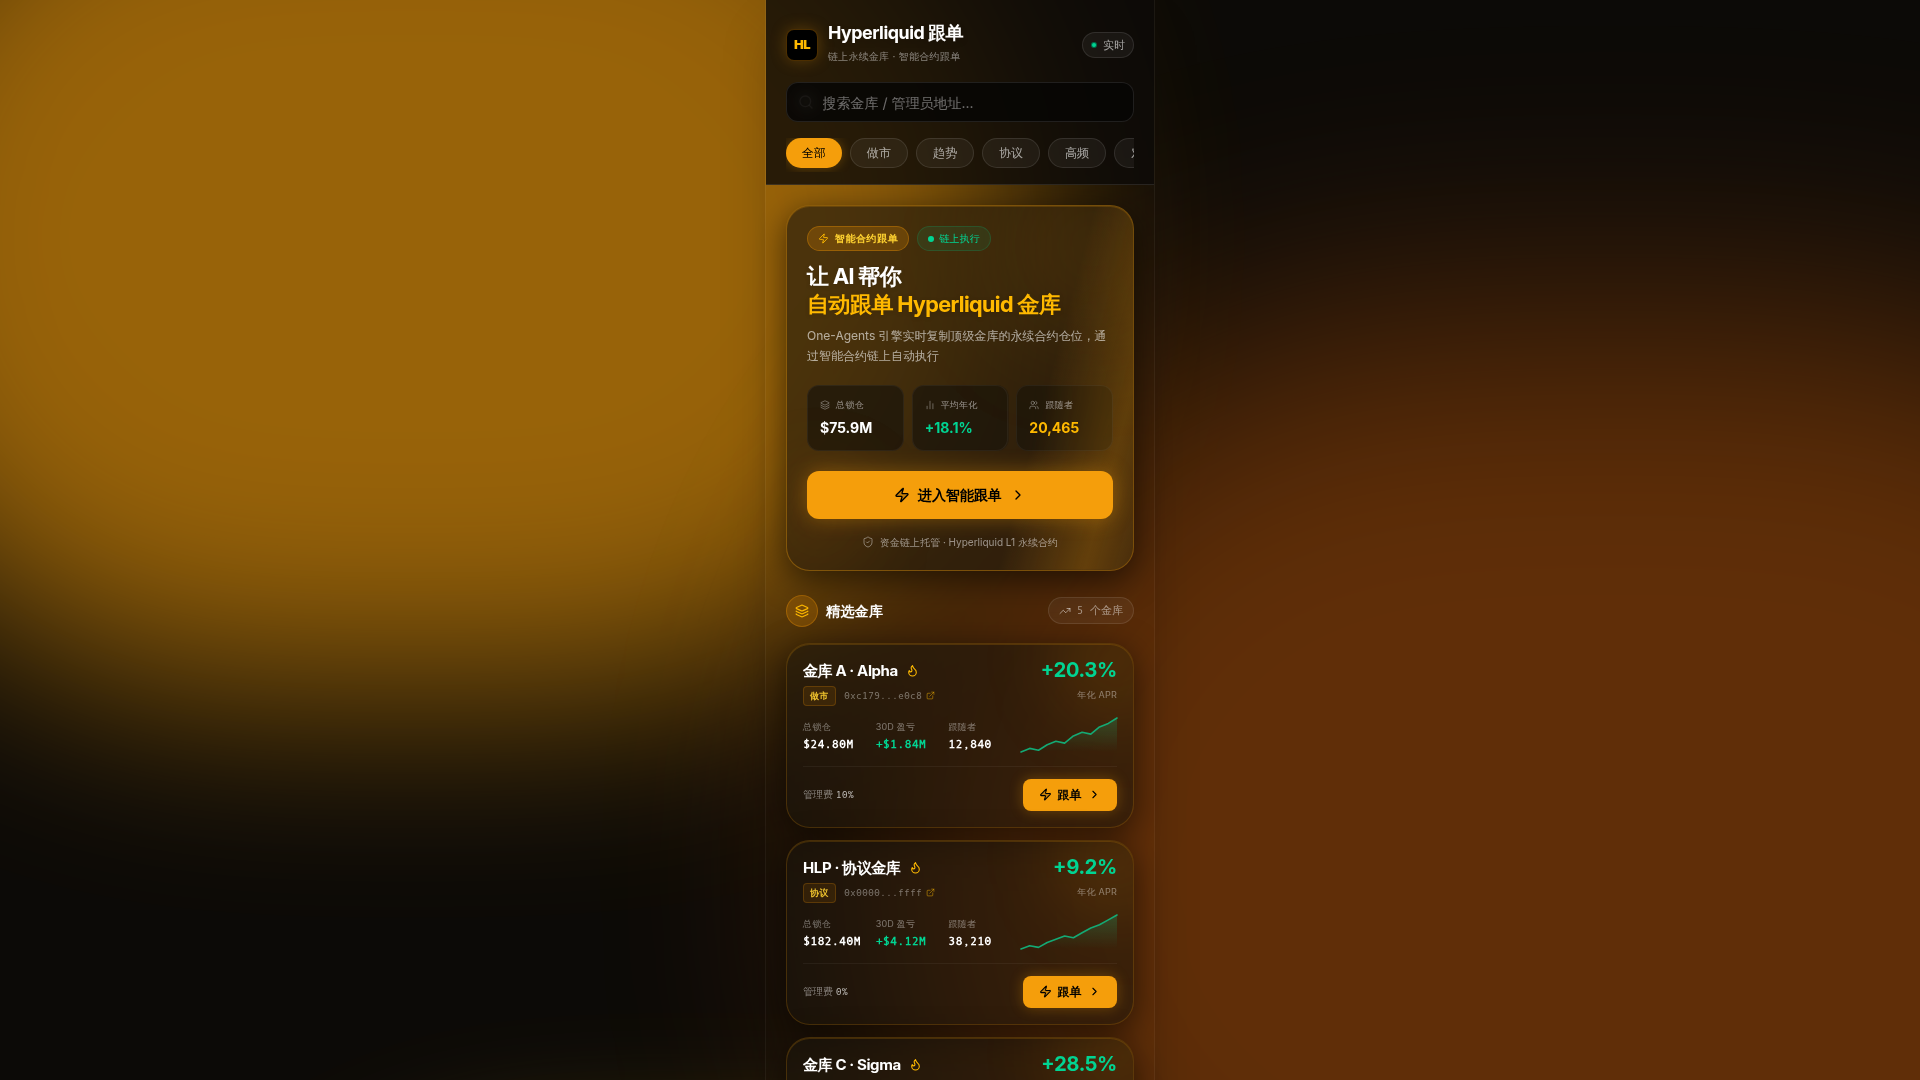
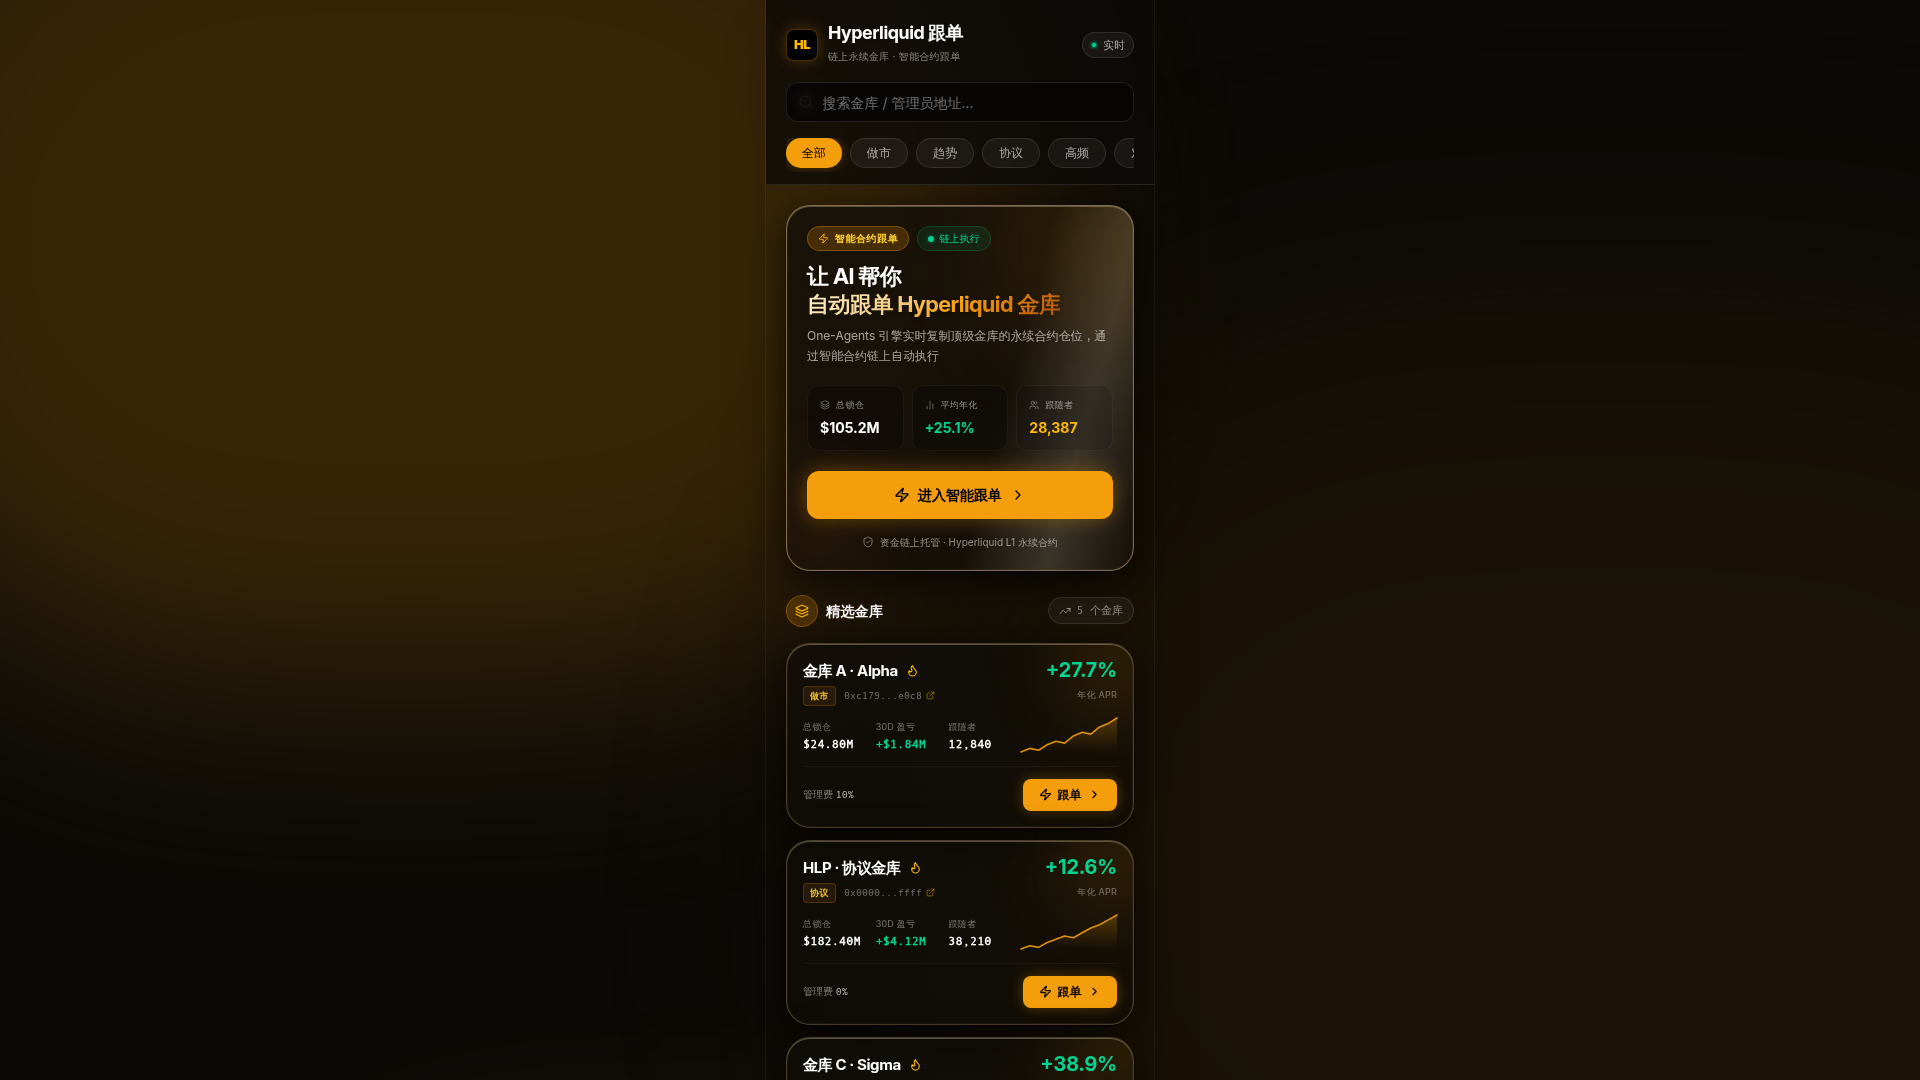
Improve interface clarity with a retro black and gold glass aesthetic
Update CSS variables and styles in `_group.css` and `Hyperliquid.tsx` to achieve a sharper, darker glass appearance with muted background orbs and metallic gold text accents, enhancing overall clarity and luxury feel.

Replit-Commit-Author: Agent
Replit-Commit-Session-Id: dee77a8a-0ff9-466d-85a1-775e9c804df3
Replit-Commit-Checkpoint-Type: full_checkpoint
Replit-Commit-Event-Id: 8db6b2ef-86cd-4bf0-ab94-3841b747455e
Replit-Commit-Screenshot-Url: https://storage.googleapis.com/screenshot-production-us-central1/fe3cc990-f6a6-4683-91c9-e290d61b5417/dee77a8a-0ff9-466d-85a1-775e9c804df3/JGB8RiD

diff --git a/artifacts/mockup-sandbox/src/components/mockups/rune-glass/_group.css b/artifacts/mockup-sandbox/src/components/mockups/rune-glass/_group.css
@@ -1,16 +1,30 @@
-/* Gold/Black iOS Liquid Glass Theme for RUNE */
+/* Gold/Black iOS Liquid Glass Theme for RUNE — Retro Luxe, crisp edition */
 
 :root {
-  --glass-bg: rgba(28, 22, 12, 0.55);
-  --glass-bg-strong: rgba(36, 28, 14, 0.66);
-  --glass-border: rgba(245, 158, 11, 0.20);
-  --glass-border-strong: rgba(245, 158, 11, 0.38);
-  --glass-shadow: 0 8px 32px rgba(0, 0, 0, 0.55);
-  --glass-inner-shadow: inset 0 1px 0 rgba(245, 158, 11, 0.18);
+  /* Deep near-black glass: higher opacity = crisp legible content, less haze */
+  --glass-bg: rgba(16, 13, 8, 0.74);
+  --glass-bg-strong: rgba(20, 16, 9, 0.84);
 
-  --orb-1: #f59e0b; /* Amber */
-  --orb-2: #b45309; /* Bronze */
-  --orb-3: #fbbf24; /* Gold */
+  /* Champagne-gold hairline edges — brighter & finer for a clean glass rim */
+  --glass-border: rgba(246, 209, 138, 0.26);
+  --glass-border-strong: rgba(246, 209, 138, 0.48);
+
+  /* Tighter, deeper shadow for crisp separation from background */
+  --glass-shadow: 0 10px 38px rgba(0, 0, 0, 0.72), 0 1px 2px rgba(0, 0, 0, 0.6);
+  /* Layered specular: bright top edge + faint gold inner rim = liquid-glass clarity */
+  --glass-inner-shadow:
+    inset 0 1px 0 rgba(255, 244, 214, 0.26),
+    inset 0 0 0 1px rgba(246, 209, 138, 0.06);
+
+  /* Antique, muted orbs — deep, restrained black-gold glow, not a bright wash */
+  --orb-1: #543708; /* Aged amber, dimmed */
+  --orb-2: #281a05; /* Deep bronze */
+  --orb-3: #6b4e14; /* Antique gold */
+
+  /* Metallic champagne gold for accents/headings */
+  --gold-bright: #f6d18a;
+  --gold: #f59e0b;
+  --gold-deep: #b45309;
 
   --accent-positive: #10b981;
   --accent-negative: #ef4444;
@@ -46,8 +60,8 @@
 
 .glass-panel {
   background: var(--glass-bg);
-  backdrop-filter: blur(24px);
-  -webkit-backdrop-filter: blur(24px);
+  backdrop-filter: blur(16px) saturate(125%);
+  -webkit-backdrop-filter: blur(16px) saturate(125%);
   border: 1px solid var(--glass-border);
   box-shadow: var(--glass-shadow), var(--glass-inner-shadow);
   border-radius: 1.5rem;
@@ -55,8 +69,8 @@
 
 .glass-panel-strong {
   background: var(--glass-bg-strong);
-  backdrop-filter: blur(32px);
-  -webkit-backdrop-filter: blur(32px);
+  backdrop-filter: blur(20px) saturate(130%);
+  -webkit-backdrop-filter: blur(20px) saturate(130%);
   border: 1px solid var(--glass-border-strong);
   box-shadow: var(--glass-shadow), var(--glass-inner-shadow);
   border-radius: 1.5rem;
@@ -64,8 +78,8 @@
 
 .glass-button {
   background: var(--glass-bg-strong);
-  backdrop-filter: blur(16px);
-  -webkit-backdrop-filter: blur(16px);
+  backdrop-filter: blur(14px) saturate(125%);
+  -webkit-backdrop-filter: blur(14px) saturate(125%);
   border: 1px solid var(--glass-border);
   box-shadow: var(--glass-shadow);
   transition: all 0.2s cubic-bezier(0.25, 1, 0.5, 1);
@@ -81,7 +95,16 @@
   left: 0;
   width: 50%;
   height: 100%;
-  background: linear-gradient(90deg, transparent, rgba(245, 158, 11, 0.25), transparent);
+  background: linear-gradient(90deg, transparent, rgba(255, 244, 214, 0.16), transparent);
   animation: shimmer 4s infinite;
   pointer-events: none;
+}
+
+/* Metallic champagne-gold text for headings / hero accents */
+.gold-text {
+  background: linear-gradient(135deg, #fff0cc 0%, #f6d18a 35%, #f59e0b 60%, #b45309 100%);
+  -webkit-background-clip: text;
+  background-clip: text;
+  -webkit-text-fill-color: transparent;
+  color: transparent;
 }

diff --git a/artifacts/mockup-sandbox/src/components/mockups/rune-glass/Hyperliquid.tsx b/artifacts/mockup-sandbox/src/components/mockups/rune-glass/Hyperliquid.tsx
@@ -284,7 +284,7 @@ export function Hyperliquid() {
               <h2 className="text-[22px] font-bold text-white leading-tight tracking-tight mb-2 drop-shadow-sm">
                 让 AI 帮你
                 <br />
-                <span className="text-amber-400">自动跟单 Hyperliquid 金库</span>
+                <span className="gold-text">自动跟单 Hyperliquid 金库</span>
               </h2>
               <p className="text-xs text-white/60 mb-5 leading-relaxed">
                 One-Agents 引擎实时复制顶级金库的永续合约仓位，通过智能合约链上自动执行
